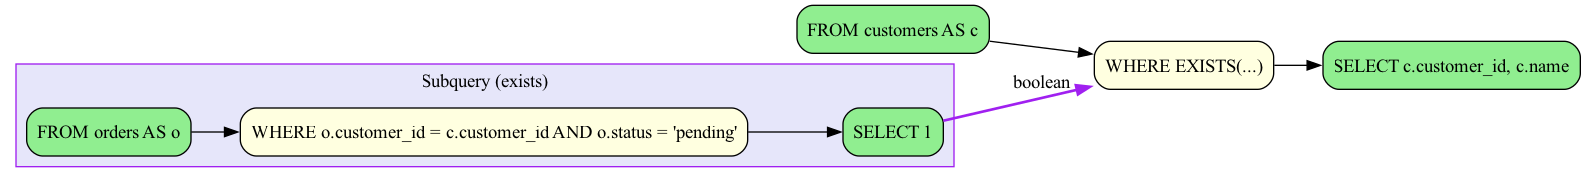
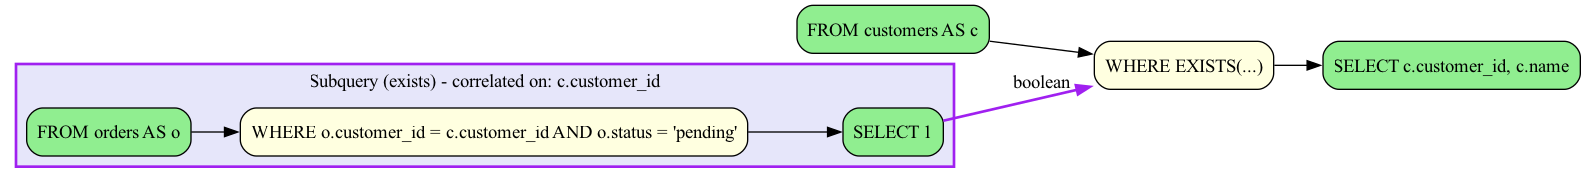
feat: support correlated subquery

Changed region(s): [[0.0, 0.3279, 0.6179, 0.3825], [0.1854, 0.4098, 0.4325, 0.4918], [0.0, 0.9016, 0.6179, 0.929]]

diff --git a/src/converter/correlation.test.ts b/src/converter/correlation.test.ts
@@ -1,0 +1,101 @@
+import { describe, it, expect } from 'vitest';
+import { parse } from '../parser.js';
+import { convert } from './index.js';
+import type { SubqueryNode } from '../types/ir.js';
+
+describe('Correlated subquery detection', () => {
+  it('should detect correlation in EXISTS subquery', () => {
+    const sql = `
+      SELECT c.customer_id, c.name
+      FROM customers c
+      WHERE EXISTS (
+        SELECT 1
+        FROM orders o
+        WHERE o.customer_id = c.customer_id
+      )
+    `;
+    
+    const ast = parse(sql);
+    const ir = convert(ast);
+    
+    // Find the subquery node
+    const subqueryNode = ir.nodes.find(n => n.kind === 'subquery') as SubqueryNode;
+    expect(subqueryNode).toBeDefined();
+    expect(subqueryNode.subqueryType).toBe('exists');
+    
+    // Check correlation detection
+    expect(subqueryNode.correlatedFields).toBeDefined();
+    expect(subqueryNode.correlatedFields).toContain('c.customer_id');
+  });
+
+  it('should detect correlation in scalar subquery', () => {
+    const sql = `
+      SELECT o.id, o.total_amount
+      FROM orders o
+      WHERE o.total_amount = (
+        SELECT MAX(total_amount)
+        FROM orders
+        WHERE customer_id = o.customer_id
+      )
+    `;
+    
+    const ast = parse(sql);
+    const ir = convert(ast);
+    
+    // Find the subquery node
+    const subqueryNode = ir.nodes.find(n => n.kind === 'subquery') as SubqueryNode;
+    expect(subqueryNode).toBeDefined();
+    expect(subqueryNode.subqueryType).toBe('scalar');
+    
+    // Check correlation detection
+    expect(subqueryNode.correlatedFields).toBeDefined();
+    expect(subqueryNode.correlatedFields).toContain('o.customer_id');
+  });
+
+  it('should detect multiple correlations', () => {
+    const sql = `
+      SELECT p.product_id, p.name
+      FROM products p
+      WHERE p.price > (
+        SELECT AVG(price)
+        FROM products p2
+        WHERE p2.category_id = p.category_id
+          AND p2.launch_date > p.launch_date
+      )
+    `;
+    
+    const ast = parse(sql);
+    const ir = convert(ast);
+    
+    // Find the subquery node
+    const subqueryNode = ir.nodes.find(n => n.kind === 'subquery') as SubqueryNode;
+    expect(subqueryNode).toBeDefined();
+    
+    // Check multiple correlations
+    expect(subqueryNode.correlatedFields).toBeDefined();
+    expect(subqueryNode.correlatedFields).toHaveLength(2);
+    expect(subqueryNode.correlatedFields).toContain('p.category_id');
+    expect(subqueryNode.correlatedFields).toContain('p.launch_date');
+  });
+
+  it('should not detect correlation for independent subqueries', () => {
+    const sql = `
+      SELECT *
+      FROM orders
+      WHERE total_amount > (
+        SELECT AVG(total_amount)
+        FROM orders
+      )
+    `;
+    
+    const ast = parse(sql);
+    const ir = convert(ast);
+    
+    // Find the subquery node
+    const subqueryNode = ir.nodes.find(n => n.kind === 'subquery') as SubqueryNode;
+    expect(subqueryNode).toBeDefined();
+    
+    // Should not have correlated fields
+    expect(subqueryNode.correlatedFields).toBeUndefined();
+  });
+});

diff --git a/src/converter/subquery-converter.ts b/src/converter/subquery-converter.ts
@@ -60,13 +60,70 @@ export const convertSubquery = (
 
 /**
  * Detect correlated fields in a subquery
- * This is a placeholder for Phase 3 implementation
+ * Finds column references that refer to tables from the parent query
  */
 const detectCorrelatedFields = (subquery: Select, parentTableRefs?: any[]): string[] | undefined => {
-  // TODO: Implement in Phase 3
-  // Need to traverse the subquery AST and find column references
-  // that refer to tables from parent query
-  return undefined;
+  if (!parentTableRefs || parentTableRefs.length === 0) return undefined;
+  
+  const correlatedFields: Set<string> = new Set();
+  const parentTables = new Set<string>();
+  
+  // Build set of parent table names/aliases
+  parentTableRefs.forEach(ref => {
+    if (typeof ref === 'object' && 'as' in ref && ref.as) {
+      parentTables.add(ref.as);
+    } else if (typeof ref === 'object' && 'table' in ref && ref.table) {
+      parentTables.add(ref.table);
+    }
+  });
+  
+  // Helper to check if a column reference is correlated
+  const checkColumnRef = (expr: any): void => {
+    if (!expr) return;
+    
+    if (expr.type === 'column_ref' && expr.table) {
+      if (parentTables.has(expr.table)) {
+        // This column references a parent table
+        const columnName = expr.column?.expr?.value || expr.column?.value || 'unknown';
+        correlatedFields.add(`${expr.table}.${columnName}`);
+      }
+    }
+    
+    // Recursively check nested expressions
+    if (expr.type === 'binary_expr') {
+      checkColumnRef(expr.left);
+      checkColumnRef(expr.right);
+    } else if (expr.type === 'expr_list' && Array.isArray(expr.value)) {
+      expr.value.forEach(checkColumnRef);
+    } else if (expr.args) {
+      if (Array.isArray(expr.args)) {
+        expr.args.forEach(checkColumnRef);
+      } else if (expr.args.expr) {
+        checkColumnRef(expr.args.expr);
+      }
+    }
+  };
+  
+  // Check WHERE clause
+  if (subquery.where) {
+    checkColumnRef(subquery.where);
+  }
+  
+  // Check SELECT columns
+  if (subquery.columns && Array.isArray(subquery.columns)) {
+    subquery.columns.forEach(col => {
+      if (col.expr) {
+        checkColumnRef(col.expr);
+      }
+    });
+  }
+  
+  // Check HAVING clause
+  if (subquery.having) {
+    checkColumnRef(subquery.having);
+  }
+  
+  return correlatedFields.size > 0 ? Array.from(correlatedFields) : undefined;
 };
 
 /**

diff --git a/src/converter/statement-converters.ts b/src/converter/statement-converters.ts
@@ -68,6 +68,7 @@ export const convertSelectStatement = (ctx: ConversionContext, stmt: Select): { 
   const nodes: Node[] = [];
   const edges: Edge[] = [];
   let lastNodeId: string | null = null;
+  let parentTableRefs: any[] = [];
 
   // WITH clause (CTEs)
   if (stmt.with) {
@@ -82,6 +83,7 @@ export const convertSelectStatement = (ctx: ConversionContext, stmt: Select): { 
   if (stmt.from) {
     // Ensure from is always an array
     const fromArray = Array.isArray(stmt.from) ? stmt.from : [stmt.from];
+    parentTableRefs = fromArray; // Store for subquery correlation detection
     const fromResult = convertFromClause(ctx, fromArray);
     nodes.push(...fromResult.nodes);
     edges.push(...fromResult.edges);
@@ -104,7 +106,7 @@ export const convertSelectStatement = (ctx: ConversionContext, stmt: Select): { 
     // Detect and create subquery nodes
     const subqueryInfo = detectSubqueryInExpression(stmt.where);
     if (subqueryInfo.hasSubquery && subqueryInfo.subqueryType && subqueryInfo.ast) {
-      const subqueryNode = convertSubquery(ctx, subqueryInfo.ast, subqueryInfo.subqueryType);
+      const subqueryNode = convertSubquery(ctx, subqueryInfo.ast, subqueryInfo.subqueryType, parentTableRefs);
       nodes.push(subqueryNode);
       // Connect subquery to WHERE clause
       edges.push(createEdge(ctx, 'subqueryResult', subqueryNode.id, whereNode.id));
@@ -153,7 +155,7 @@ export const convertSelectStatement = (ctx: ConversionContext, stmt: Select): { 
     if (col.expr) {
       const subqueryInfo = detectSubqueryInExpression(col.expr);
       if (subqueryInfo.hasSubquery && subqueryInfo.subqueryType && subqueryInfo.ast) {
-        const subqueryNode = convertSubquery(ctx, subqueryInfo.ast, subqueryInfo.subqueryType);
+        const subqueryNode = convertSubquery(ctx, subqueryInfo.ast, subqueryInfo.subqueryType, parentTableRefs);
         nodes.push(subqueryNode);
         // Connect subquery to SELECT clause
         edges.push(createEdge(ctx, 'subqueryResult', subqueryNode.id, selectNode.id));

diff --git a/src/renderer/dot.ts b/src/renderer/dot.ts
@@ -188,6 +188,8 @@ const getEdgeStyle = (kind: string): string => {
       return 'color=red, style=dashed';
     case 'subqueryResult':
       return 'color=purple, style=bold, label="subquery result"';
+    case 'correlation':
+      return 'color=orange, style=dashed, constraint=false';
     default:
       return '';
   }
@@ -254,10 +256,22 @@ const renderSubquerySubgraph = (subqueryNode: SubqueryNode, lines: string[], par
   
   // Phase 2: Render subquery as subgraph
   lines.push(`  subgraph cluster_${escapeId(subqueryNode.id)} {`);
-  lines.push(`    label="${escapeLabel(subqueryNode.label)}";`);
+  
+  // Update label to show correlation information
+  let label = subqueryNode.label;
+  if (subqueryNode.correlatedFields && subqueryNode.correlatedFields.length > 0) {
+    label += ` - correlated on: ${subqueryNode.correlatedFields.join(', ')}`;
+  }
+  
+  lines.push(`    label="${escapeLabel(label)}";`);
   lines.push('    style=filled;');
   lines.push('    fillcolor=lavender;');
   lines.push('    color=purple;');
+  
+  // Add thicker border for correlated subqueries
+  if (subqueryNode.correlatedFields && subqueryNode.correlatedFields.length > 0) {
+    lines.push('    penwidth=2;');
+  }
   
   // Render inner nodes
   subqueryNode.innerGraph.nodes.forEach(node => {

diff --git a/src/renderer/mermaid.ts b/src/renderer/mermaid.ts
@@ -218,7 +218,14 @@ const renderSubquery = (subqueryNode: SubqueryNode, parentGraph: Graph): string[
   
   // Phase 2: Render subquery as subgraph
   const subgraphId = `subquery_${sanitizeId(subqueryNode.id)}`;
-  lines.push(`    subgraph ${subgraphId} ["${escapeLabel(subqueryNode.label)}"]`);
+  
+  // Update label to show correlation information
+  let label = subqueryNode.label;
+  if (subqueryNode.correlatedFields && subqueryNode.correlatedFields.length > 0) {
+    label += ` - correlated`;
+  }
+  
+  lines.push(`    subgraph ${subgraphId} ["${escapeLabel(label)}"]`);
   lines.push('        direction TB');
   
   // Render inner nodes

diff --git a/src/types/ir.ts b/src/types/ir.ts
@@ -32,7 +32,8 @@ export type EdgeKind =
   | "uses"
   | "defines"
   | "mapsTo"
-  | "subqueryResult";
+  | "subqueryResult"
+  | "correlation";
 
 export type Edge = {
   id: string;
